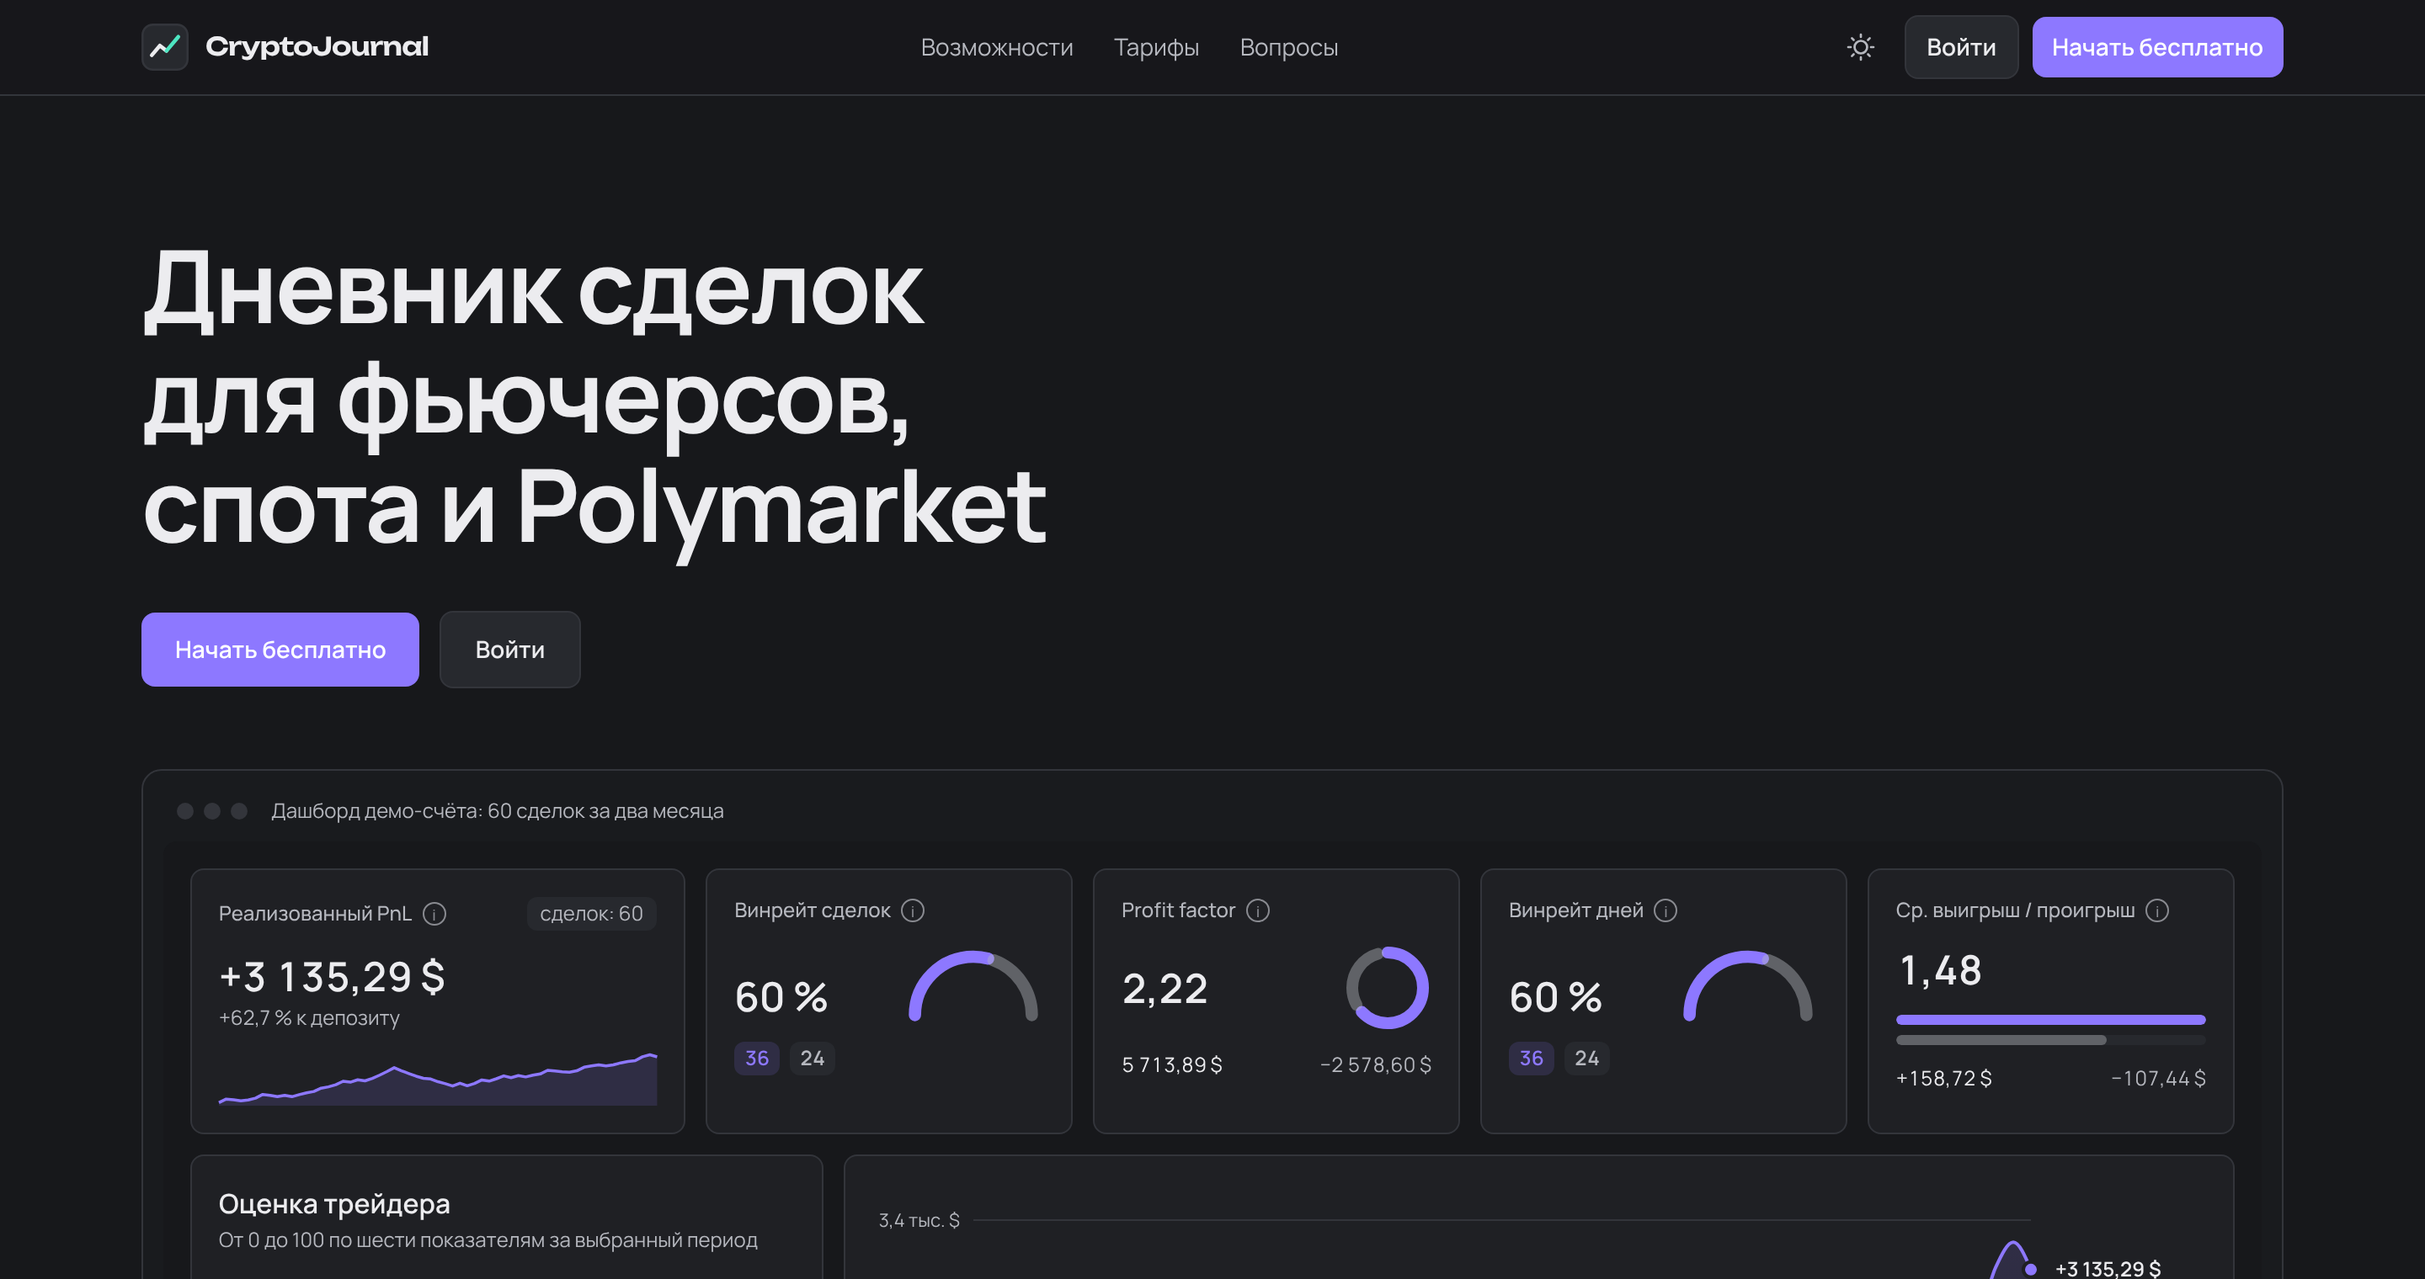
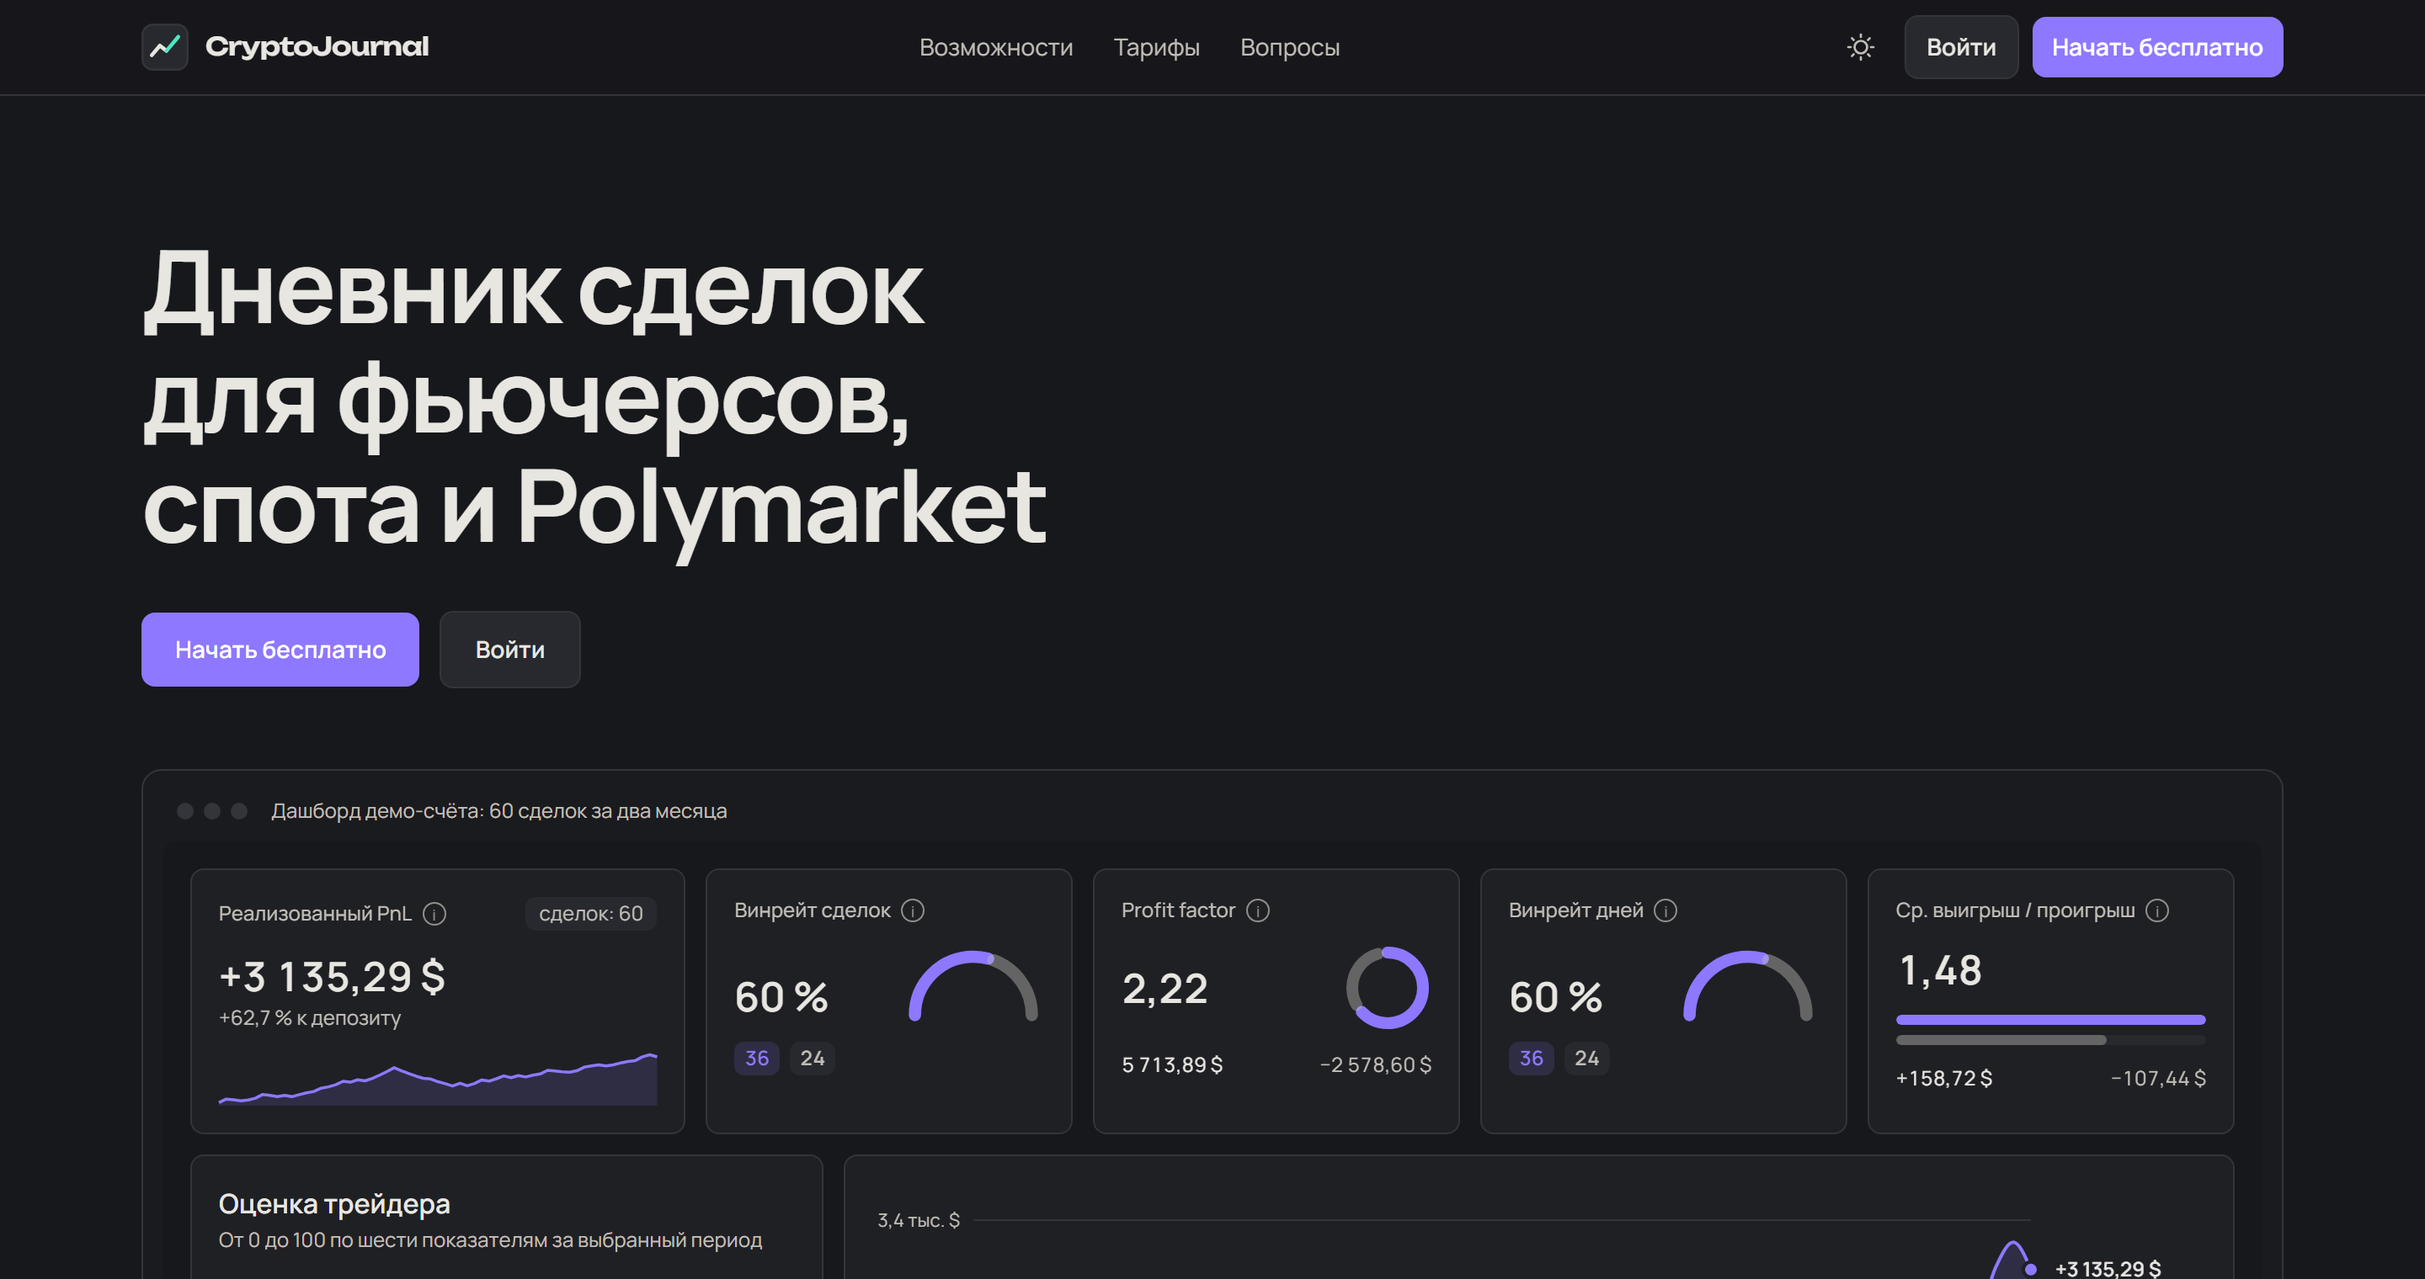
Светлая тема по умолчанию; текст в тёмной теме читабельнее
- светлая тема при первом открытии; тёмная — переключателем, выбор помнится (cj-theme = 'dark')
- public/theme-init.js ставит светлую до отрисовки — без вспышки тёмного фона
- тёмная тема: основной текст мягкий светлый (#e8e6e1), подписи светлее (#c0bdb6), начертание чуть плотнее
- главная: абзацы 90 % яркости текста вместо 80 %
- e2e: тема по умолчанию светлая; скриншоты обновлены

diff --git a/src/features/landing/LandingPage.tsx b/src/features/landing/LandingPage.tsx
@@ -123,7 +123,7 @@ export function LandingPage() {
             <h2 id="exchanges-title" className="text-2xl font-bold tracking-tight sm:text-3xl">
               {l.exchanges.title}
             </h2>
-            <p className="mt-2 text-text/80">{l.exchanges.hint}</p>
+            <p className="mt-2 text-text/90">{l.exchanges.hint}</p>
             <div className="mt-6 grid gap-4 md:grid-cols-3">
               {WAYS.map((w, i) => (
                 <Reveal key={w.key} delay={120 + i * 90} className="flex flex-col rounded-lg border border-border bg-bg/60 p-4 sm:p-5">
@@ -135,11 +135,11 @@ export function LandingPage() {
                       </li>
                     ))}
                   </ul>
-                  <p className="mt-3 text-sm leading-relaxed text-text/80">{l.exchanges.ways[w.key].text}</p>
+                  <p className="mt-3 text-sm leading-relaxed text-text/90">{l.exchanges.ways[w.key].text}</p>
                 </Reveal>
               ))}
             </div>
-            <p className="mt-4 text-sm text-text/80">{l.exchanges.soon}</p>
+            <p className="mt-4 text-sm text-text/90">{l.exchanges.soon}</p>
           </Reveal>
         </section>
 
@@ -172,7 +172,7 @@ export function LandingPage() {
                 <Reveal as="li" key={k} delay={i * 90} className="border-t-2 border-primary pt-5">
                   <div className="num text-sm font-semibold text-primary">0{i + 1}</div>
                   <h3 className="mt-2 text-lg font-semibold">{l.steps[k].title}</h3>
-                  <p className="mt-2 text-sm leading-relaxed text-text/80">{l.steps[k].text}</p>
+                  <p className="mt-2 text-sm leading-relaxed text-text/90">{l.steps[k].text}</p>
                 </Reveal>
               ))}
             </ol>
@@ -183,7 +183,7 @@ export function LandingPage() {
         <section id="pricing" className={`${wrap} scroll-mt-20 py-16 sm:py-24`}>
           <Reveal>
             <h2 className="text-3xl font-bold tracking-tight sm:text-4xl">{l.pricingTitle}</h2>
-            <p className="mt-3 text-text/80">{l.pricingHint}</p>
+            <p className="mt-3 text-text/90">{l.pricingHint}</p>
           </Reveal>
           <Reveal delay={90} className="mt-8">
             <PlansTable
@@ -211,7 +211,7 @@ export function LandingPage() {
                       +
                     </span>
                   </summary>
-                  <p className="mt-3 max-w-2xl text-sm leading-relaxed text-text/80">{l.faq.items[k].a}</p>
+                  <p className="mt-3 max-w-2xl text-sm leading-relaxed text-text/90">{l.faq.items[k].a}</p>
                 </Reveal>
               ))}
             </div>
@@ -242,7 +242,7 @@ function Feature({ title, text, flip = false, children }: { title: string; text:
     <div className="grid items-center gap-8 lg:grid-cols-2 lg:gap-16">
       <Reveal className={flip ? 'lg:order-2' : ''}>
         <h3 className="text-2xl font-bold tracking-tight">{title}</h3>
-        <p className="mt-3 max-w-lg leading-relaxed text-text/80">{text}</p>
+        <p className="mt-3 max-w-lg leading-relaxed text-text/90">{text}</p>
       </Reveal>
       <Reveal delay={90}>{children}</Reveal>
     </div>

diff --git a/e2e/app.spec.ts b/e2e/app.spec.ts
@@ -168,29 +168,29 @@ test.describe('оформление', () => {
     await fakeSupabase(page, db)
     await page.goto('dashboard')
     const html = page.locator('html')
-    await expect(html).not.toHaveAttribute('data-theme', 'light') // тёмная по умолчанию
-    await page.getByRole('button', { name: 'Светлая тема' }).filter({ visible: true }).first().click()
-    await expect(html).toHaveAttribute('data-theme', 'light')
-    await page.reload()
-    await expect(html).toHaveAttribute('data-theme', 'light')
-    await page.goto('settings')
-    await page.getByRole('radio', { name: 'Тёмная' }).click()
+    await expect(html).toHaveAttribute('data-theme', 'light') // светлая по умолчанию
+    await page.getByRole('button', { name: 'Тёмная тема' }).filter({ visible: true }).first().click()
     await expect(html).not.toHaveAttribute('data-theme', 'light')
+    await page.reload()
+    await expect(html).not.toHaveAttribute('data-theme', 'light')
+    await page.goto('settings')
+    await page.getByRole('radio', { name: 'Светлая' }).click()
+    await expect(html).toHaveAttribute('data-theme', 'light')
   })
 
   test('главная: тема переключается в шапке, без вспышки после перезагрузки', async ({ page, db }) => {
     await fakeSupabase(page, db, { signedIn: false })
     await page.goto('')
     const html = page.locator('html')
-    await expect(html).not.toHaveAttribute('data-theme', 'light')
+    await expect(html).toHaveAttribute('data-theme', 'light') // светлая по умолчанию
     await expect(page.getByText('карта не нужна')).toHaveCount(0)
-    await page.getByRole('button', { name: 'Светлая тема' }).click()
-    await expect(html).toHaveAttribute('data-theme', 'light')
-    // тема стоит ещё до загрузки приложения (public/theme-init.js)
-    await page.reload({ waitUntil: 'commit' })
-    await page.waitForSelector('html[data-theme="light"]', { state: 'attached' })
     await page.getByRole('button', { name: 'Тёмная тема' }).click()
     await expect(html).not.toHaveAttribute('data-theme', 'light')
+    // выбор помнится и ставится ещё до загрузки приложения (public/theme-init.js)
+    await page.reload({ waitUntil: 'domcontentloaded' })
+    await expect(html).not.toHaveAttribute('data-theme', 'light')
+    await page.getByRole('button', { name: 'Светлая тема' }).click()
+    await expect(html).toHaveAttribute('data-theme', 'light')
   })
 })
 

diff --git a/src/styles/theme.css b/src/styles/theme.css
@@ -6,7 +6,8 @@
  * Роли акцентов: primary (фиолетовый) — кнопки, ссылки, навигация;
  * accent (мятный) — данные и графики; profit / loss — только прибыль и убыток.
  *
- * Тема: тёмная по умолчанию, светлая — атрибут data-theme="light" на <html> (src/lib/theme.ts).
+ * Тема: светлая по умолчанию — атрибут data-theme="light" на <html> (ставят public/theme-init.js и src/lib/theme.ts);
+ * без атрибута — тёмная (значения в @theme ниже).
  */
 @import 'tailwindcss';
 
@@ -29,8 +30,9 @@
   --color-border: #33353b;
 
   /* Текст */
-  --color-text: #ececef;
-  --color-muted: #b6b8bf;   /* подписи: контраст ≥ 7:1 на всех поверхностях (WCAG AA с запасом) */
+  /* тёмная тема: основной текст мягкий светлый, не чисто белый — не «режет» на графите (07.11.2026) */
+  --color-text: #e8e6e1;
+  --color-muted: #c0bdb6;   /* подписи: тёплый светло-серый, контраст ≥ 8:1 на всех поверхностях */
 
   /* Акценты */
   --color-primary: #8d78ff;       /* фиолетовый: кнопки, ссылки */
@@ -193,6 +195,10 @@
   }
   body {
     @apply bg-bg text-text font-sans antialiased;
+  }
+  /* Тёмная тема: светлый текст на тёмном выглядит тоньше — чуть плотнее начертание (вёрстку не сдвигает) */
+  html:not([data-theme='light']) body {
+    font-weight: 450;
   }
   h1 {
     @apply font-bold tracking-tight;

diff --git a/src/lib/theme.ts b/src/lib/theme.ts
@@ -1,5 +1,6 @@
 /**
- * Тема оформления: тёмная (по умолчанию, решение владельца 07.11.2026) или светлая.
+ * Тема оформления: светлая (по умолчанию, решение владельца 07.11.2026) или тёмная.
+ * На странице светлая — атрибут data-theme="light" на <html>; без атрибута — тёмная (базовые цвета theme.css).
  * Хранится в браузере (localStorage) — у каждого устройства своя, в базу не пишем.
  * Цвета обеих тем — в src/styles/theme.css.
  * До загрузки приложения тему ставит public/theme-init.js (иначе при светлой теме мигал бы тёмный фон) —
@@ -14,9 +15,9 @@ const listeners = new Set<() => void>()
 
 export function readTheme(): Theme {
   try {
-    return localStorage.getItem(KEY) === 'light' ? 'light' : 'dark'
+    return localStorage.getItem(KEY) === 'dark' ? 'dark' : 'light'
   } catch {
-    return 'dark' // приватный режим / запрет хранилища
+    return 'light' // приватный режим / запрет хранилища
   }
 }
 

diff --git a/public/theme-init.js b/public/theme-init.js
@@ -1,12 +1,13 @@
 // Тема до первой отрисовки, чтобы не мигал фон. Логика — как readTheme / applyTheme в src/lib/theme.ts.
+// Светлая по умолчанию; тёмная — только если пользователь её выбрал (cj-theme = 'dark').
 ;(function () {
+  var dark = false
   try {
-    if (localStorage.getItem('cj-theme') === 'light') {
-      document.documentElement.dataset.theme = 'light'
-      var m = document.querySelector('meta[name="theme-color"]')
-      if (m) m.setAttribute('content', '#efe9dc')
-    }
+    dark = localStorage.getItem('cj-theme') === 'dark'
   } catch (e) {
-    // хранилище недоступно — остаётся тёмная по умолчанию
+    // хранилище недоступно — остаётся светлая по умолчанию
   }
+  if (!dark) document.documentElement.dataset.theme = 'light'
+  var m = document.querySelector('meta[name="theme-color"]')
+  if (m) m.setAttribute('content', dark ? '#17181b' : '#efe9dc')
 })()

diff --git a/index.html b/index.html
@@ -3,7 +3,7 @@
   <head>
     <meta charset="UTF-8" />
     <meta name="viewport" content="width=device-width, initial-scale=1.0" />
-    <meta name="theme-color" content="#17181b" />
+    <meta name="theme-color" content="#efe9dc" />
     <!-- тема до первой отрисовки (без вспышки); inline-скрипты запрещены CSP, поэтому отдельный файл -->
     <script src="%BASE_URL%theme-init.js"></script>
     <link rel="icon" href="/favicon.svg" type="image/svg+xml" />

diff --git a/CLAUDE.md b/CLAUDE.md
@@ -40,7 +40,7 @@ src/
                        border-border, text-text, text-muted, text-primary (фиолет: кнопки), text-accent (мята: данные),
                        text-profit, text-loss, font-display (заголовки), num (цифры моно), rise (появление, --i), card-lift.
                        Без свечений, пульсаций и градиентов — сайт не должен выглядеть «сгенерированным». Светлая тема — :root[data-theme='light'] в том же файле
-  lib/theme.ts         тёмная (по умолчанию) / светлая тема (localStorage; до загрузки приложения — public/theme-init.js, без вспышки), useTheme / setTheme; кнопка — components/ThemeToggle.tsx
+  lib/theme.ts         светлая (по умолчанию) / тёмная тема (localStorage; до загрузки приложения — public/theme-init.js, без вспышки), useTheme / setTheme; кнопка — components/ThemeToggle.tsx
   lib/palette.ts       палитра прибыли / убытка (по умолчанию classic — зелёный / красный; classic, teal_salmon, sky_coral — всем, остальные 5 — Pro / Pro Plus, проверка и триггером 0015; выбор — полоска под календарём, features/palette):
                        data-palette на <html>, цвета в theme.css; --color-up / --color-down = profit / loss
   lib/motion.ts        prefersReducedMotion, useCountUp — анимации уважают «уменьшить движение»
